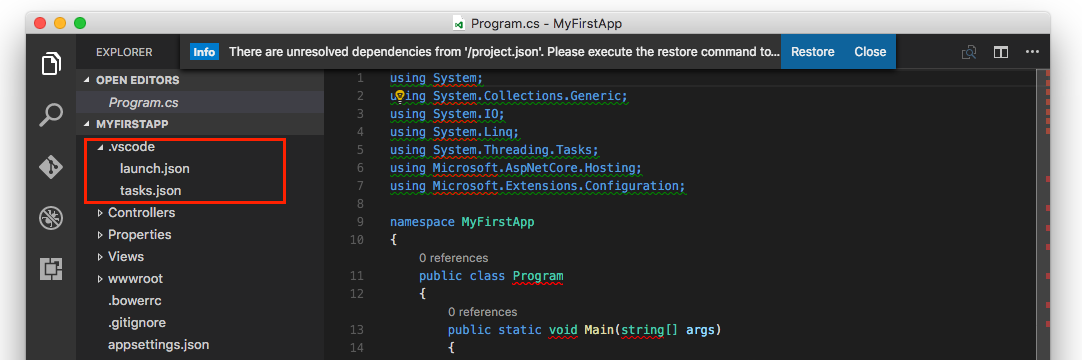
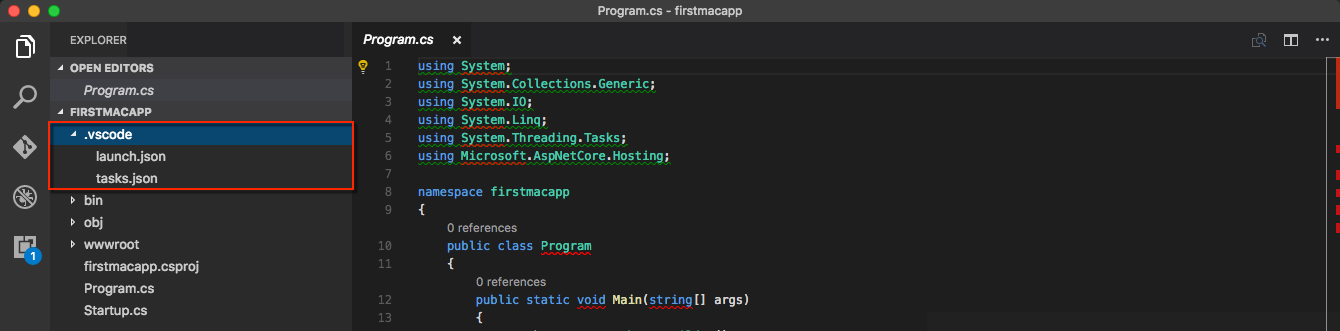
Update First App on a Mac  (#2831)
* Razor remove csproj (#2662)

* don't merge

* csproj razor update

* code style

* Update razor.md

* CRLF / LF issues in these files

* updates switch yeoman for dotnet

* remove extra lines

* addressing feedback

diff --git a/aspnetcore/tutorials/your-first-mac-aspnet.md b/aspnetcore/tutorials/your-first-mac-aspnet.md
@@ -1,80 +1,69 @@
 ---
 title: Build an ASP.NET Core app on a Mac Using Visual Studio Code | Microsoft Docs
-author: ardalis
-description: This article will walk you through creating your first web application on a Mac using the Yeoman generator for ASP.NET Core and Visual Studio Code
+author: spboyer
+description: This article will walk you through creating your first web application on a Mac using the dotnet CLI for ASP.NET Core and Visual Studio Code
 keywords: ASP.NET Core, macOS, Yeoman, generator-aspnet, Visual Studio Code
 ms.author: riande
 manager: wpickett
-ms.date: 10/14/2016
+ms.date: 02/22/2017
 ms.topic: article
 ms.assetid: dcc08e09-e73e-4feb-84ce-8219b7e544ef
 ms.technology: aspnet
 ms.prod: asp.net-core
 uid: tutorials/your-first-mac-aspnet
 ---
-# Your First ASP.NET Core Application on a Mac Using Visual Studio Code
-
-By [Daniel Roth](https://github.com/danroth27), [Steve Smith](http://ardalis.com), [Rick Anderson](https://twitter.com/RickAndMSFT), and [Shayne Boyer](https://twitter.com/spboyer)
+# Your first ASP.NET Core application on a Mac using Visual Studio Code
 
 This article will show you how to write your first ASP.NET Core application on a Mac.
 
-## Setting Up Your Development Environment
+## Setting up your development environment
 
-To setup your development machine download and install [.NET Core](https://microsoft.com/net/core) and [Visual Studio Code](https://code.visualstudio.com) with the [C# extension](https://marketplace.visualstudio.com/items?itemName=ms-vscode.csharp). Node.js and npm is also required. If not already installed visit [nodejs.org](https://nodejs.org/en/download/package-manager/#osx).
+To setup your development machine download and install [.NET Core](https://microsoft.com/net/core) and [Visual Studio Code](https://code.visualstudio.com) with the [C# extension](https://marketplace.visualstudio.com/items?itemName=ms-vscode.csharp).
 
-## Scaffolding Applications Using Yeoman
+## Scaffolding applications using dotnet new
 
-We will be using `yo aspnet` to generate the **Web Application Basic** template, you may follow the full instructions in [Building Projects with Yeoman](../client-side/yeoman.md) to create an ASP.NET Core project which show an **Empty Web** for reference.
+We will be using `dotnet new` to generate a new web application using the "Empty Web Template". Create a working directory for your project called *firstmacapp* . cd to *firstmacapp*.
 
-Install the necessary yeoman generators and bower using npm.
+Start Visual Studio Code and open the *firstmacapp* folder. Press Ctrl + '`' (the back-quote character) to open an embedded terminal in VS Code. Alternatively, use a separate terminal window.
+Run the `dotnet new` command to create a new web application, passing the `mvc` parameter as the template type.
 
 ```console
-npm install -g yo generator-aspnet@0.2.6 bower
+dotnet new mvc
 ```
 
-Run the ASP.NET Core generator
+When the CLI command completes; the following output and files are produced.
 
 ```console
-yo aspnet
+Content generation time: 79.6691 ms
+The template "Empty ASP.NET Core Web Application" created successfully.
 ```
 
-* Select **Web Application Basic [without Membership and Authorization]** and tap Enter
+* Startup.cs : [Startup Class](../fundamentals/startup.md) - class configures the request pipeline that handles all requests made to the application.
+* Program.cs : [Program Class](../fundamentals/) that contains the Main entry point of the application.
+* firstmacapp.csproj : [Project file](https://docs.microsoft.com/en-us/dotnet/articles/core/preview3/tools/csproj) MSBuild Project file format for ASP.NET Core applications. Contains Project to Project references, NuGet References and other project related items.
+* appsettings.json / appsettings.Development.json : Environment base app settings configuration file. [See Configuration](xref:fundamentals/configuration).
+* bower.json : Bower package dependencies for the project.
+* .bowerrc : Bower configuration file which defines where to install the components when Bower downloads the assets.
+* bundleconfig.json : configuration files for bundling and minifying front-end JavaScript and CSS assets.
+* Views : Contains the Razor views. Views are the components that display the app's user interface (UI). Generally, this UI displays the model data.
+* Controllers : Contains MVC Controllers, initially *HomeController.cs*. Controllers are classes that handle browser requests.
+* wwwroot : Web application root folder.
 
-* Select Bootstrap (3.3.6) as the UI framework and tap Enter
+For more on the MVC pattern see [What is the MVC pattern?](xref:mvc/overview).
 
-* Use "MyFirstApp" for the app name and tap Enter
+## Developing ASP.NET Core applications on a Mac with Visual Studio Code
 
-When the generator completes scaffolding the files, it will instruct you to restore, build, and run the application.
+Select the _Program.cs_ file and Visual Studio Code will prompt to restore the needed project dependencies and add build and debug dependencies.
 
-```console
-Your project is now created, you can use the following commands to get going
-       cd "MyFirstApp"
-       dotnet restore
-       dotnet build (optional, build will also happen with it's run)
-       dotnet run
-   ```
-
-## Developing ASP.NET Core Applications on a Mac With Visual Studio Code
-
-* Start **Visual Studio Code**
-
-* Tap **File > Open** and navigate to your ASP.NET Core app
-
-![File menu](your-first-mac-aspnet/_static/file-open.png)
-
-When the application is opened, Visual Studio Code will prompt to restore the needed project dependencies as well as add build and debug dependencies.
-
-![Info messages: 1. There are unresolved dependencies from project.json. Please execute the restore command to continue. 2. Required assets to build and debug are missing from your project. Add them?](your-first-mac-aspnet/_static/dependencies-restore.png)
+![Info messages: 2. 2. Required assets to build and debug are missing from your project. Add them?](your-first-mac-aspnet/_static/debug-add-items-prompt.png)
 
 Tap "Yes" to add the build and debug assets.
 
 ![In the VS Code Explorer sidebar, launch.json and tasks.json files are added to the .vscode folder.](your-first-mac-aspnet/_static/debug-items-added.png)
 
-Tap "Restore" to restore the project dependencies. Alternately, you can enter `⌘⇧P` in Visual Studio Code and then type `dot` as shown:
+Tap "Restore" to restore the project dependencies. Alternately, you can run `dotnet restore` from the terminal or enter `⌘⇧P` in Visual Studio Code and then type `.NET` as shown:
 
 ![Command bar showing autocompletion option on typing 'dot' for 'dotnet: Restore Packages'](your-first-mac-aspnet/_static/dot-restore.png)
-
-You can run commands directly from within Visual Studio Code, including `dotnet restore` and any tools referenced in the *project.json* file, as well as custom tasks defined in *.vscode/tasks.json*. Visual Studio Code also includes an integrated console `⌃` where you can execute these commands without leaving the editor.
 
 If this is your first time using Visual Studio Code (or just *Code* for short), note that it provides a very streamlined, fast, clean interface for quickly working with files, while still providing tooling to make writing code extremely productive.
 
@@ -100,13 +89,11 @@ Code's editor has a ton of great features. You'll notice unused using statements
 
 More on editor in [Visual Studio Code](https://code.visualstudio.com).
 
-## Running Locally Using Kestrel
+## Running locally using Kestrel
 
-The sample is configured to use [Kestrel](../fundamentals/servers/kestrel.md) for the web server. You can see it configured in the *project.json* file, where it is specified as a dependency.
+The sample is configured to use [Kestrel](../fundamentals/servers/kestrel.md) for the web server.
 
-  `"Microsoft.AspNetCore.Server.Kestrel":`
-
-### Using Visual Studio Code Debugger
+### Using Visual Studio Code debugger
 
 If you chose to have the debug and build assets added to the project:
 
@@ -180,8 +167,7 @@ Looking at the Deployment Details in the Azure Portal, you can see the logs and 
 
 ![Azure Portal for web application: Deployment Details](your-first-mac-aspnet/_static/deployment.png)
 
-## Additional Resources
+## Additional resources
 
 * [Visual Studio Code](https://code.visualstudio.com)
-* [Building Projects with Yeoman](../client-side/yeoman.md)
 * [Fundamentals](../fundamentals/index.md)
